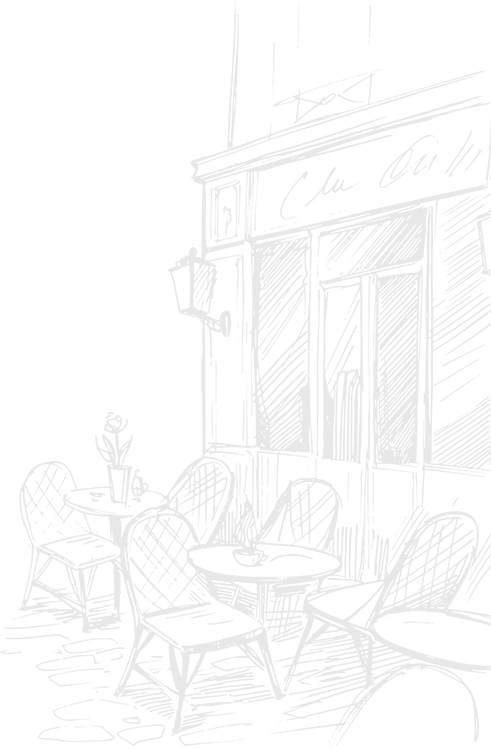
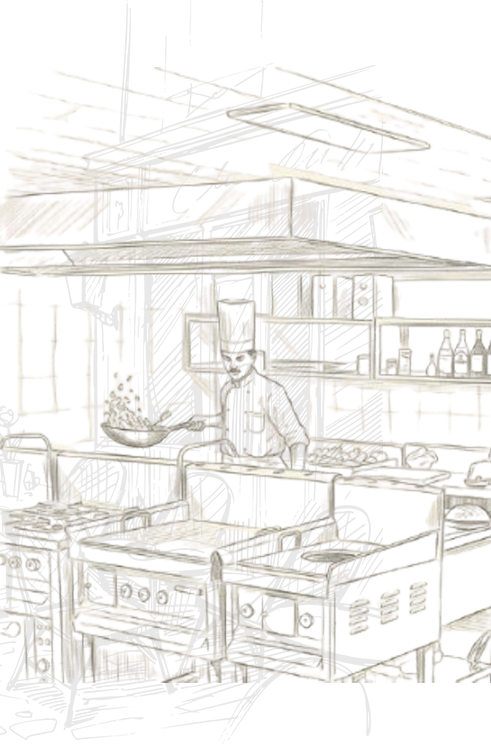
new changes

diff --git a/assets/css/shortcodes.css b/assets/css/shortcodes.css
@@ -746,7 +746,7 @@ form textarea.style-2 {
 .wg-about {
     padding-top: 112px;
     padding-bottom: 135px;
-    background-image: url(../images/bg-section/about-bg11.png);
+    background-image: url(../images/bg-section/about-bg1.png);
     background-repeat: no-repeat;
     background-position: 100% 60%;
     background-color: #fbfbe0;

diff --git a/footer.php b/footer.php
@@ -73,15 +73,8 @@
     <div class="title-wg mb-3">Location</div>
 
     <div class="map-box">
-        <iframe 
-            src="https://www.google.com/maps/embed?pb=!1m18!1m12!1m3!1d3501.7642856559823!2d77.07453887550093!3d28.6368258756624!2m3!1f0!2f0!3f0!3m2!1i1024!2i768!4f13.1!3m3!1m2!1s0x390d05455c7a0c33%3A0xa562d498f07094da!2sXero%20Degrees%20vikaspuri!5e0!3m2!1sen!2sin!4v1779870316295!5m2!1sen!2sin"
-            width="100%"
-            height="220"
-            style="border:0; border-radius:12px;"
-            allowfullscreen=""
-            loading="lazy"
-            referrerpolicy="no-referrer-when-downgrade">
-        </iframe>
+        <iframe src="https://www.google.com/maps/embed?pb=!1m18!1m12!1m3!1d29521.82758909929!2d77.04444419591219!3d28.64096935821434!2m3!1f0!2f0!3f0!3m2!1i1024!2i768!4f13.1!3m3!1m2!1s0x390d0577a15640cb%3A0x6d633da33fc6fa32!2sSehat%20veda!5e1!3m2!1sen!2sin!4v1780489345824!5m2!1sen!2sin" 
+            width="100%" height="220" style="border:0;" allowfullscreen="" loading="lazy" referrerpolicy="no-referrer-when-downgrade"></iframe>
     </div>
 </div>
                         